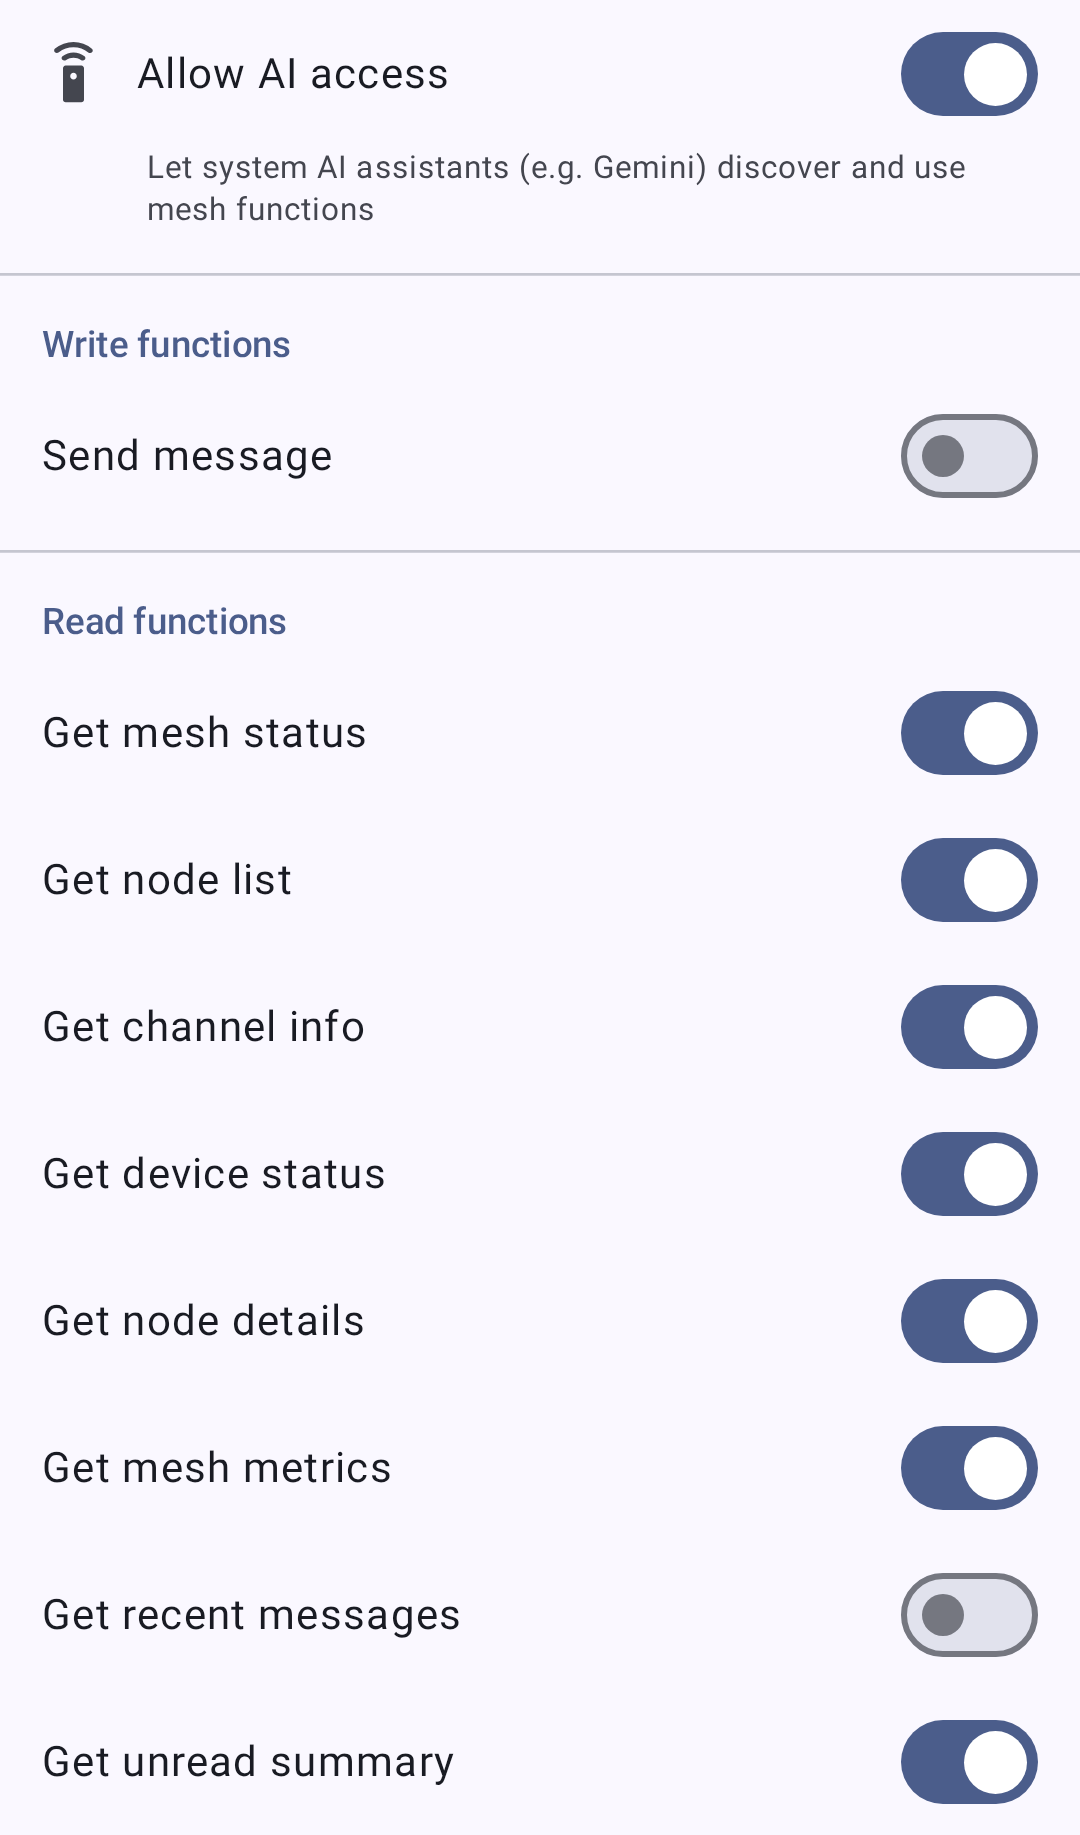
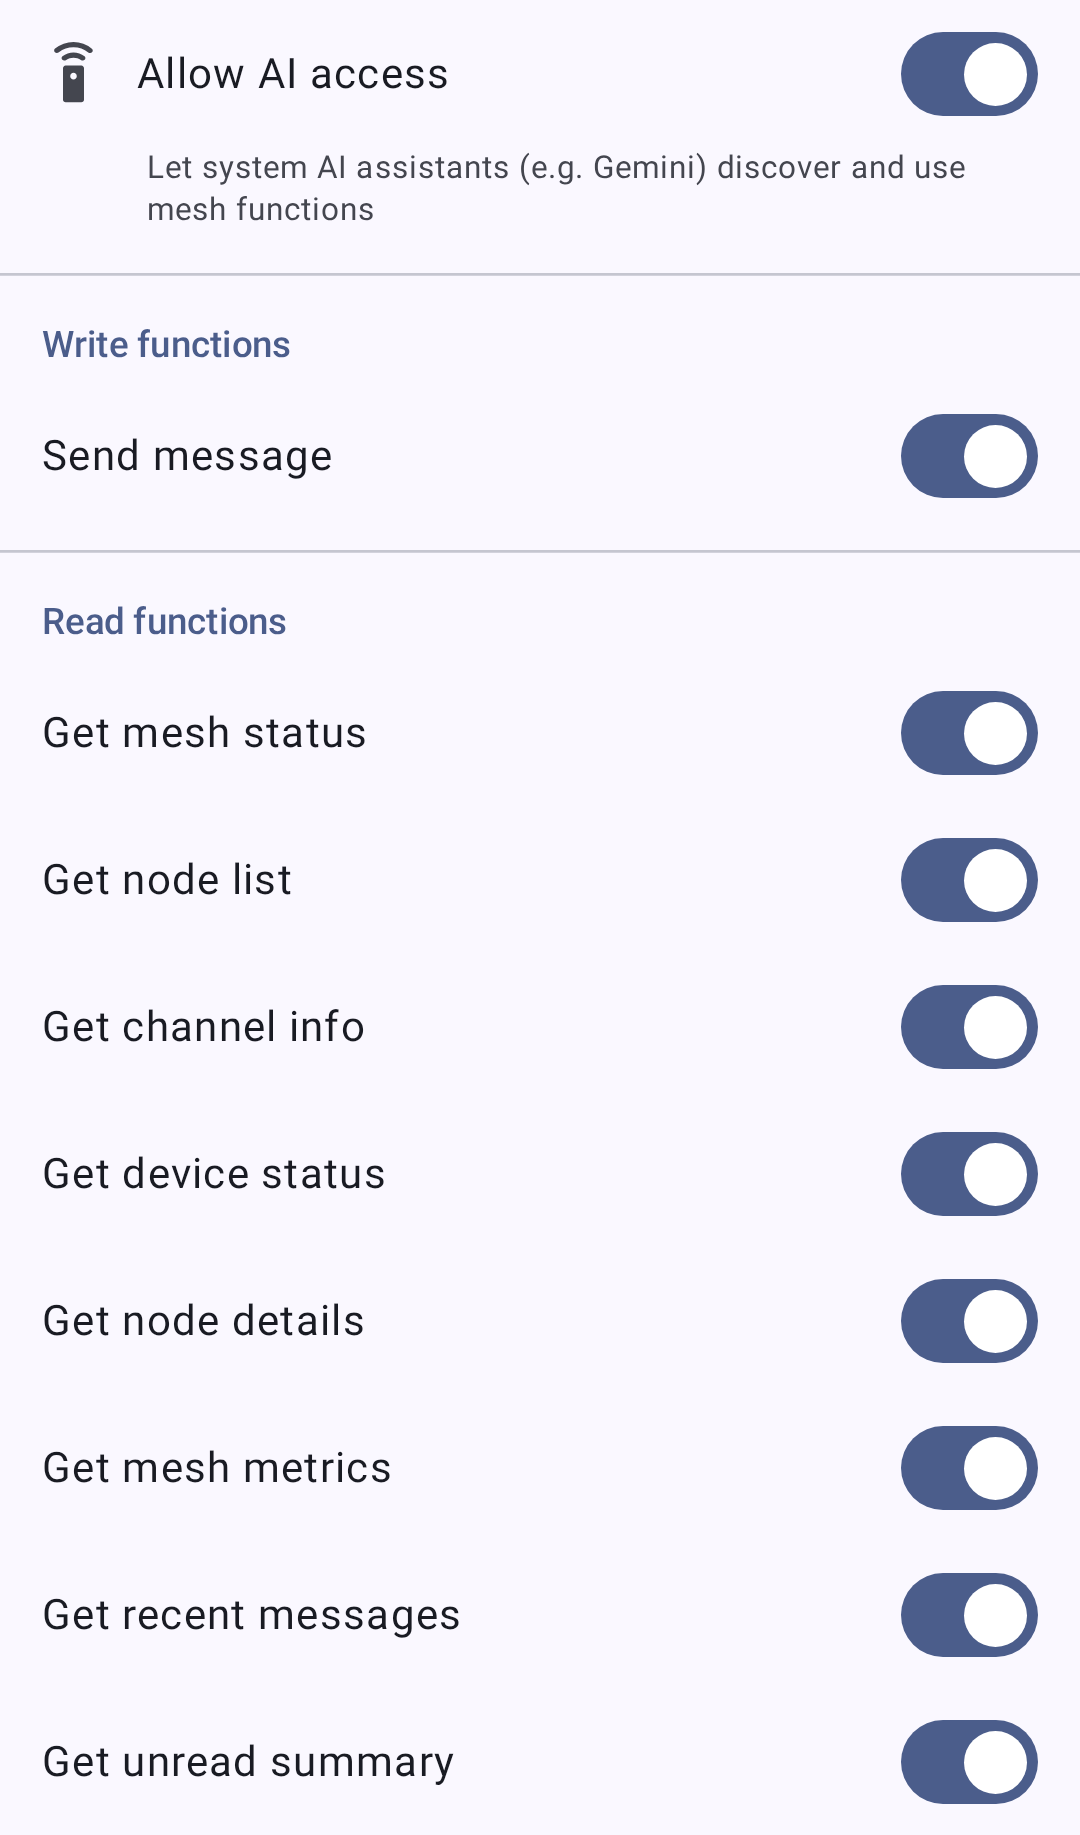
chore(resources): drop dead string keys, and fix help text that contradicts the code (#6972)

Changed region(s): [[0.825, 0.2174, 0.9778, 0.2796], [0.825, 0.8387, 0.9778, 0.9008]]

diff --git a/core/ui/src/commonMain/kotlin/org/meshtastic/core/ui/util/ModelExtensions.kt b/core/ui/src/commonMain/kotlin/org/meshtastic/core/ui/util/ModelExtensions.kt
@@ -17,50 +17,10 @@
 package org.meshtastic.core.ui.util
 
 import org.jetbrains.compose.resources.StringResource
-import org.meshtastic.core.model.ChannelOption
 import org.meshtastic.core.model.TracerouteMapAvailability
 import org.meshtastic.core.resources.Res
-import org.meshtastic.core.resources.label_lite_fast
-import org.meshtastic.core.resources.label_lite_slow
-import org.meshtastic.core.resources.label_long_fast
-import org.meshtastic.core.resources.label_long_moderate
-import org.meshtastic.core.resources.label_long_slow
-import org.meshtastic.core.resources.label_long_turbo
-import org.meshtastic.core.resources.label_medium_fast
-import org.meshtastic.core.resources.label_medium_slow
-import org.meshtastic.core.resources.label_medium_turbo
-import org.meshtastic.core.resources.label_narrow_fast
-import org.meshtastic.core.resources.label_narrow_slow
-import org.meshtastic.core.resources.label_short_fast
-import org.meshtastic.core.resources.label_short_slow
-import org.meshtastic.core.resources.label_short_turbo
-import org.meshtastic.core.resources.label_tiny_fast
-import org.meshtastic.core.resources.label_tiny_slow
-import org.meshtastic.core.resources.label_very_long_slow
 import org.meshtastic.core.resources.traceroute_endpoint_missing
 import org.meshtastic.core.resources.traceroute_map_no_data
-
-val ChannelOption.labelRes: StringResource
-    get() =
-        when (this) {
-            ChannelOption.VERY_LONG_SLOW -> Res.string.label_very_long_slow
-            ChannelOption.LONG_TURBO -> Res.string.label_long_turbo
-            ChannelOption.LONG_FAST -> Res.string.label_long_fast
-            ChannelOption.LONG_MODERATE -> Res.string.label_long_moderate
-            ChannelOption.LONG_SLOW -> Res.string.label_long_slow
-            ChannelOption.MEDIUM_FAST -> Res.string.label_medium_fast
-            ChannelOption.MEDIUM_SLOW -> Res.string.label_medium_slow
-            ChannelOption.MEDIUM_TURBO -> Res.string.label_medium_turbo
-            ChannelOption.SHORT_FAST -> Res.string.label_short_fast
-            ChannelOption.SHORT_SLOW -> Res.string.label_short_slow
-            ChannelOption.SHORT_TURBO -> Res.string.label_short_turbo
-            ChannelOption.LITE_FAST -> Res.string.label_lite_fast
-            ChannelOption.LITE_SLOW -> Res.string.label_lite_slow
-            ChannelOption.NARROW_FAST -> Res.string.label_narrow_fast
-            ChannelOption.NARROW_SLOW -> Res.string.label_narrow_slow
-            ChannelOption.TINY_FAST -> Res.string.label_tiny_fast
-            ChannelOption.TINY_SLOW -> Res.string.label_tiny_slow
-        }
 
 fun TracerouteMapAvailability.toMessageRes(): StringResource? = when (this) {
     TracerouteMapAvailability.Ok -> null

diff --git a/feature/connections/src/commonMain/kotlin/org/meshtastic/feature/connections/ui/ConnectionsScreen.kt b/feature/connections/src/commonMain/kotlin/org/meshtastic/feature/connections/ui/ConnectionsScreen.kt
@@ -602,10 +602,11 @@ fun ConnectionsScreen(
                                 onAction = openLocationSettings,
                             )
                         }
-                        // The BLE pane's missing-permission card, for the transport whose discovery Android 17 gates.
-                        // Without it the network pane repeats the BLE bug it was just fixed for: an empty list and a
-                        // hint about the network, when the app was never allowed to look. Manual entry still works,
-                        // which is why the copy points at it rather than presenting this as a dead end.
+                        // The BLE pane's missing-permission card, for the transport Android 17 gates. Without it
+                        // the network pane repeats the BLE bug it was just fixed for: an empty list and a hint about
+                        // the network, when the app was never allowed to look. The gate is on the socket, not just
+                        // discovery, so manual entry is no workaround for a radio on this Wi-Fi — only one reached
+                        // over a public address or a VPN is unaffected, which is what the copy now says.
                         if (activeTransport == DeviceType.TCP && !localNetworkPermission.isGranted) {
                             PermissionRecoveryCard(
                                 state = localNetworkPermission,

diff --git a/feature/settings/src/commonMain/kotlin/org/meshtastic/feature/settings/appfunctions/AppFunctionsSettingsScreen.kt b/feature/settings/src/commonMain/kotlin/org/meshtastic/feature/settings/appfunctions/AppFunctionsSettingsScreen.kt
@@ -237,7 +237,7 @@ fun PreviewAppFunctionsSettings() {
             Column {
                 MasterToggleSection(masterEnabled = true, onToggle = {})
                 HorizontalDivider(modifier = Modifier.padding(vertical = 8.dp))
-                WriteFunctionsSection(masterEnabled = true, sendMessage = false, onToggleSendMessage = {})
+                WriteFunctionsSection(masterEnabled = true, sendMessage = true, onToggleSendMessage = {})
                 HorizontalDivider(modifier = Modifier.padding(vertical = 8.dp))
                 ReadFunctionsSection(
                     masterEnabled = true,
@@ -253,7 +253,7 @@ fun PreviewAppFunctionsSettings() {
                     onToggleNodeDetails = {},
                     getMeshMetrics = true,
                     onToggleMeshMetrics = {},
-                    getRecentMessages = false,
+                    getRecentMessages = true,
                     onToggleRecentMessages = {},
                     getUnreadSummary = true,
                     onToggleUnreadSummary = {},

diff --git a/core/ui/src/commonMain/kotlin/org/meshtastic/core/ui/util/AnnotatedStrings.kt b/core/ui/src/commonMain/kotlin/org/meshtastic/core/ui/util/AnnotatedStrings.kt
@@ -39,7 +39,7 @@ fun annotateTraceroute(
     return buildAnnotatedString {
         inString.lines().forEachIndexed { i, line ->
             if (i > 0) append("\n")
-            // Example line: "⇊ -8.75 dB SNR"
+            // Example line: "⇊ -8.75 dB" (formatTraceroutePath in RouteDiscovery.kt emits "dB", with no trailing "SNR")
             if (line.trimStart().startsWith("⇊")) {
                 val snrRegex = Regex("""⇊ ([\d.?-]+) dB""")
                 val snrMatch = snrRegex.find(line)
